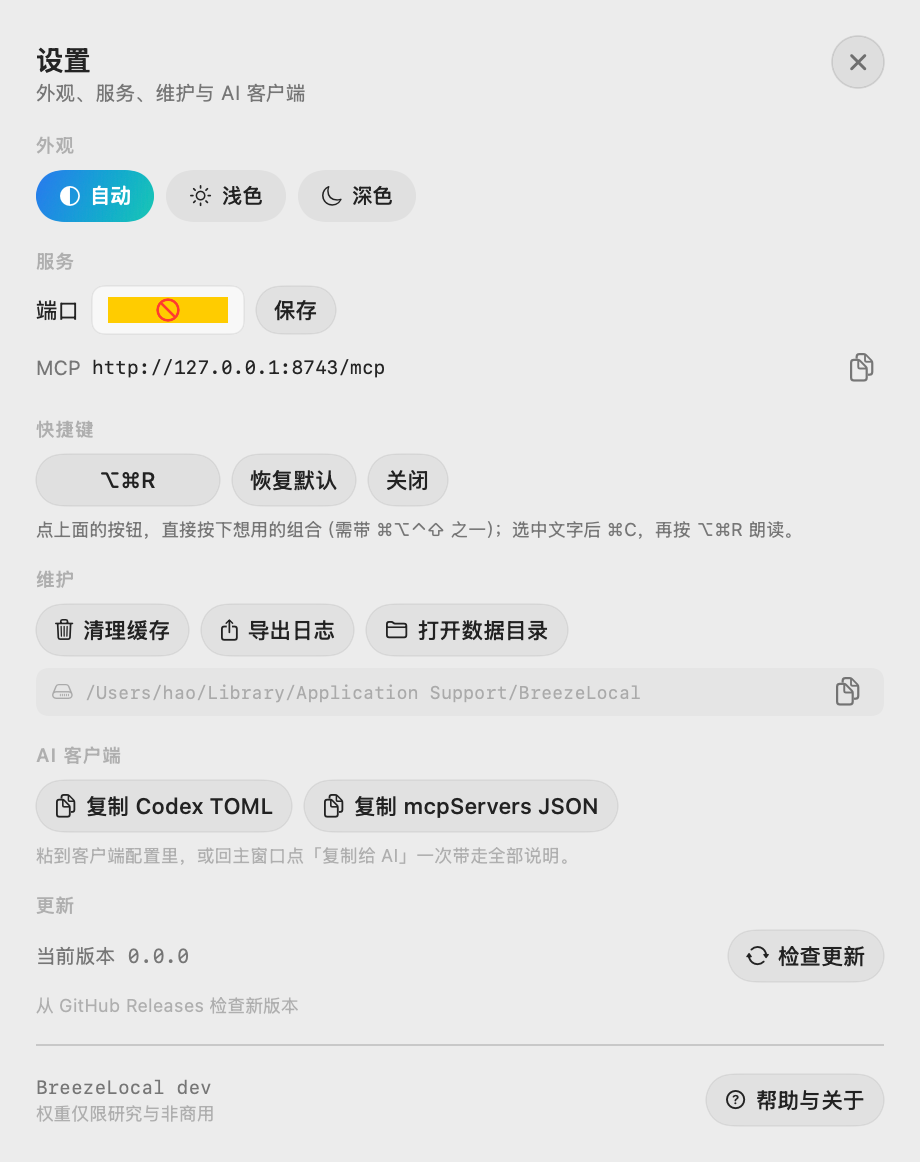
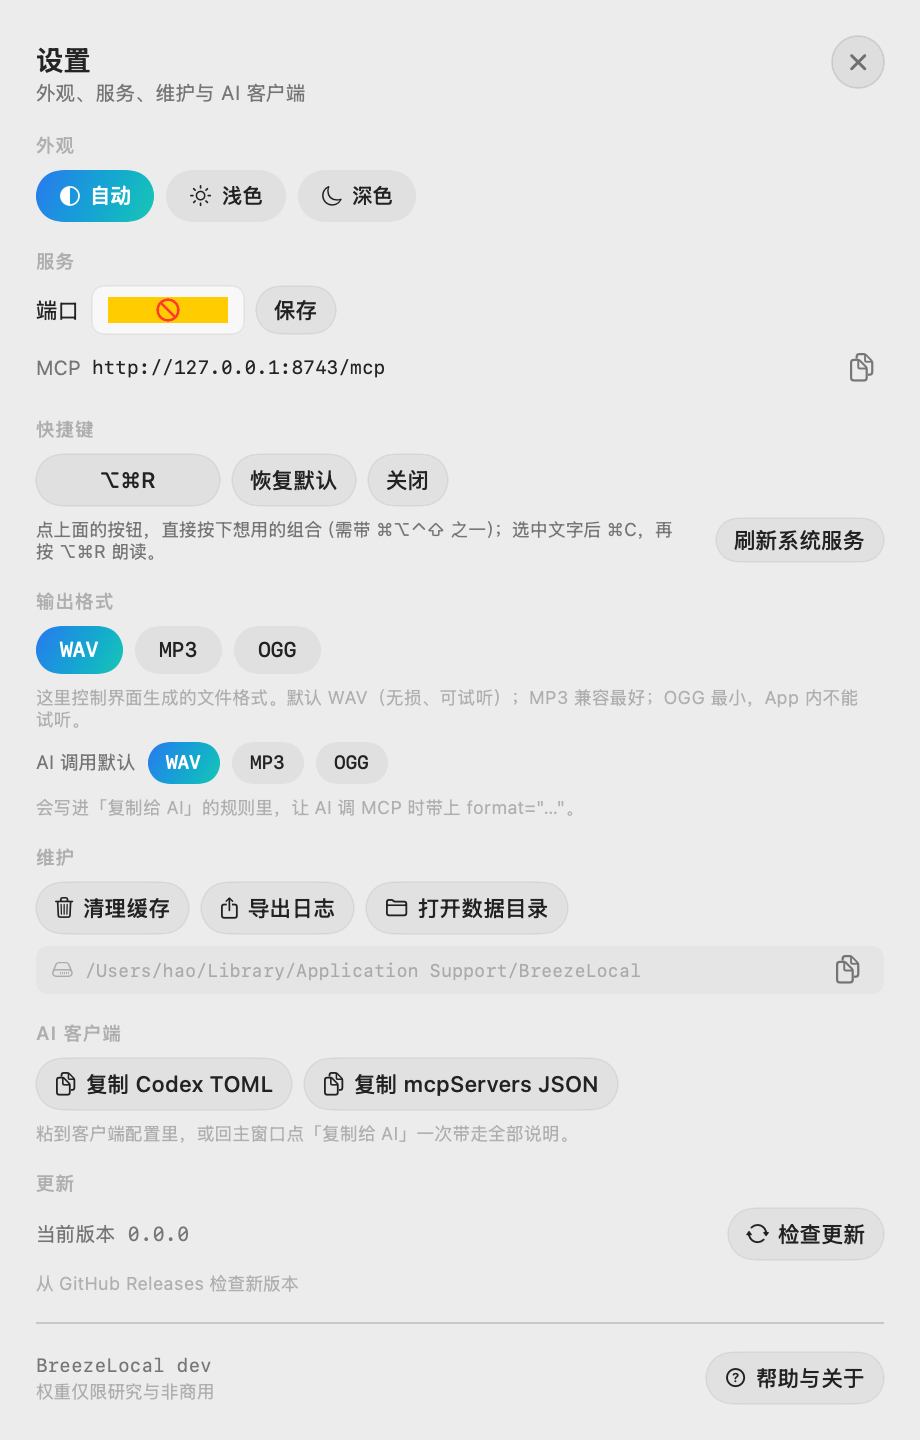
feat: MCP/HTTP 支持输出格式，设置可配 AI 默认格式
- breeze_speak/design/clone 增加 format（wav 默认 / mp3 / ogg）
- /v1/audio/speech 支持 format 并返回对应 Content-Type
- 设置新增「AI 调用默认」，写入交接文本规则
- CHANGELOG 0.8.3

diff --git a/Sources/BreezeLocal/AppState.swift b/Sources/BreezeLocal/AppState.swift
@@ -76,6 +76,10 @@ final class AppState: ObservableObject {
     @Published var exportFormat: String = UserDefaults.standard.string(forKey: "BreezeLocal.exportFormat") ?? "wav" {
         didSet { UserDefaults.standard.set(exportFormat, forKey: "BreezeLocal.exportFormat") }
     }
+    /// MCP / AI 调用时建议使用的格式，会写进「复制给 AI」的交接文本
+    @Published var aiFormat: String = UserDefaults.standard.string(forKey: "BreezeLocal.aiFormat") ?? "wav" {
+        didSet { UserDefaults.standard.set(aiFormat, forKey: "BreezeLocal.aiFormat") }
+    }
     @Published var showVoiceSheet = false
     @Published var showCloneSheet = false
 
@@ -749,6 +753,7 @@ final class AppState: ObservableObject {
         - 当前模型：\(model)
         - 模型路径：\(path)
         - 采样率：24 kHz 单声道
+        - 默认输出格式：\(aiFormat.uppercased())（可在设置里改）
 
         ## Codex 配置（~/.codex/config.toml）
         \(codexConfigText)
@@ -757,9 +762,9 @@ final class AppState: ObservableObject {
         \(jsonConfigText)
 
         ## 可用工具
-        - breeze_speak(text, voice?, instruct?, cfg_scale?)：用本机模型合成语音，返回 WAV 绝对路径。
-        - breeze_design(text, description, cfg_scale?)：用一句自然语言描述创造音色并朗读。
-        - breeze_clone(text, ref_audio, ref_text, instruct?, cfg_scale?)：用本地参考音频（3–30 秒）+ 逐字稿克隆音色。
+        - breeze_speak(text, voice?, instruct?, cfg_scale?, format?)：用本机模型合成语音，返回音频绝对路径；format 可选 wav（默认）/ mp3 / ogg。
+        - breeze_design(text, description, cfg_scale?, format?)：用一句自然语言描述创造音色并朗读。
+        - breeze_clone(text, ref_audio, ref_text, instruct?, cfg_scale?, format?)：用本地参考音频（3–30 秒）+ 逐字稿克隆音色。
         - breeze_status()：查看模型、采样率、内存占用。
 
         ## 使用规则
@@ -767,8 +772,9 @@ final class AppState: ObservableObject {
         2. 中文文本可用 [笑]、[叹气]、[咳嗽]、[清嗓子] 等方括号标记；英文用 (laugh)、(sigh) 等圆括号标记。
         3. 需要特定情绪或语气时，把导演指令写进 instruct（例如“语速放慢，语气克制而严肃”）。
         4. 参考音频必须干净、单人、无背景音乐；ref_text 必须与音频内容逐字一致。
-        5. MCP 生成的音频写在数据目录 outputs 下，只保留最近 5 条（可用环境变量 BREEZE_MCP_KEEP 调整），旧文件自动清理。
-        6. 生成结果只作为素材，商用前请确认 Breeze TTS 2 权重的非商用许可。
+        5. 调用 breeze_speak / breeze_design / breeze_clone 时请传 format="\(aiFormat)"；不传则用 WAV。做语音机器人建议 mp3 或 ogg（体积约为 WAV 的 1/6）。
+        6. MCP 生成的音频写在数据目录 outputs 下，只保留最近 5 条（可用环境变量 BREEZE_MCP_KEEP 调整），旧文件自动清理。
+        7. 生成结果只作为素材，商用前请确认 Breeze TTS 2 权重的非商用许可。
 
         ## 验证方式
         1. 确认服务在跑：/usr/bin/nc -z 127.0.0.1 \(mcpPort)

diff --git a/Sources/BreezeLocal/ContentView.swift b/Sources/BreezeLocal/ContentView.swift
@@ -1322,10 +1322,34 @@ struct SettingsSheet: View {
                     }
                     Spacer()
                 }
-                Text("默认 WAV（无损、可 App 内试听）；MP3 兼容性最好；OGG 体积最小，但 App 内不能试听，会用系统播放器打开。")
+                Text("这里控制界面生成的文件格式。默认 WAV（无损、可试听）；MP3 兼容最好；OGG 最小，App 内不能试听。")
                     .font(.system(size: 9))
                     .foregroundStyle(.tertiary)
                     .fixedSize(horizontal: false, vertical: true)
+
+                HStack(spacing: 6) {
+                    Text("AI 调用默认")
+                        .font(.system(size: 9.5))
+                        .foregroundStyle(.secondary)
+                    ForEach(["wav", "mp3", "ogg"], id: \.self) { format in
+                        Button { state.aiFormat = format } label: {
+                            Text(format.uppercased())
+                                .font(.system(size: 9.5, weight: .medium, design: .monospaced))
+                                .foregroundStyle(state.aiFormat == format ? Color.white : Color.primary)
+                                .padding(.horizontal, 9).frame(height: 21)
+                                .background(
+                                    Capsule().fill(state.aiFormat == format
+                                                   ? AnyShapeStyle(Palette.accentGradient)
+                                                   : AnyShapeStyle(Color.primary.opacity(0.06)))
+                                )
+                        }
+                        .buttonStyle(.plain)
+                    }
+                    Spacer()
+                }
+                Text("会写进「复制给 AI」的规则里，让 AI 调 MCP 时带上 format=\"…\"。")
+                    .font(.system(size: 9))
+                    .foregroundStyle(.tertiary)
             }
 
             section("维护") {

diff --git a/sidecar/breeze_sidecar.py b/sidecar/breeze_sidecar.py
@@ -55,6 +55,7 @@ class SpeechRequest(BaseModel):
     max_tokens: int = 1500
     temperature: float = 0.9
     seed: int | None = None
+    format: str = "wav"
 
 
 # --------------------------------------------------------------------------- #
@@ -353,8 +354,8 @@ def import_model(source: str, data_dir: Path, name: str | None) -> None:
     emit({"type": "done", "model": record})
 
 
-def convert_audio(src: Path, dst: Path, fmt: str) -> None:
-    """把 24k 单声道 WAV 转成 mp3 / ogg（依赖 libsndfile 1.2+）。"""
+def encode_file(src: Path, dst: Path, fmt: str) -> None:
+    """把 24k 单声道 WAV 编码成 mp3 / ogg（依赖 libsndfile 1.2+）。"""
     import soundfile as sf
 
     data, sr = sf.read(str(src), dtype="float32", always_2d=False)
@@ -364,8 +365,33 @@ def convert_audio(src: Path, dst: Path, fmt: str) -> None:
     elif fmt == "ogg":
         sf.write(str(dst), data, sr, format="OGG", subtype="VORBIS")
     else:
-        raise fail(f"不支持的格式：{fmt}")
+        raise ValueError(f"不支持的格式：{fmt}")
+
+
+def convert_audio(src: Path, dst: Path, fmt: str) -> None:
+    try:
+        encode_file(src, dst, fmt)
+    except ValueError as exc:
+        raise fail(str(exc)) from exc
     emit({"type": "done", "result": {"path": str(dst), "format": fmt, "bytes": dst.stat().st_size}})
+
+
+def save_output(audio, stem: str, fmt: str, outputs_dir: Path) -> tuple[Path, str]:
+    """写 WAV；如果要求 mp3/ogg 就转码并删掉中间文件。失败时保留 WAV。"""
+    fmt = (fmt or "wav").strip().lower()
+    if fmt not in {"wav", "mp3", "ogg"}:
+        fmt = "wav"
+    wav = outputs_dir / f"{stem}.wav"
+    write_wav(wav, audio)
+    if fmt == "wav":
+        return wav, "wav"
+    target = wav.with_suffix("." + fmt)
+    try:
+        encode_file(wav, target, fmt)
+        wav.unlink(missing_ok=True)
+        return target, fmt
+    except Exception:
+        return wav, "wav"
 
 
 def clean_cache(data_dir: Path) -> None:
@@ -619,33 +645,31 @@ def serve_model(args: argparse.Namespace, data_dir: Path) -> None:
     mcp = FastMCP("BreezeLocal")
 
     @mcp.tool
-    def breeze_speak(text: str, voice: str | None = None, instruct: str | None = None, cfg_scale: float | None = None) -> dict[str, Any]:
-        """Synthesize speech on this Mac and return the absolute path of the WAV file."""
+    def breeze_speak(text: str, voice: str | None = None, instruct: str | None = None, cfg_scale: float | None = None, format: str = "wav") -> dict[str, Any]:
+        """Synthesize speech on this Mac. format: wav (default) / mp3 / ogg. Returns the absolute output path."""
         try:
             result = run_infer(
                 lambda model: synthesize(model, text=text, voice=voice, instruct=instruct, cfg_scale=cfg_scale)
             )
         except BaseException as exc:  # noqa: BLE001
             return {"ok": False, "error": f"{type(exc).__name__}: {exc}"}
-        out = data_dir / "outputs" / f"mcp-{int(time.time()*1000)}.wav"
-        write_wav(out, result.pop("audio"))
+        out, used = save_output(result.pop("audio"), f"mcp-{int(time.time()*1000)}", format, data_dir / "outputs")
         prune_mcp_outputs(data_dir / "outputs")
-        return {"ok": True, "path": str(out), **result}
+        return {"ok": True, "path": str(out), "format": used, **result}
 
     @mcp.tool
-    def breeze_design(text: str, description: str, cfg_scale: float = 4.0) -> dict[str, Any]:
-        """Create a voice from a natural-language description (no reference audio)."""
+    def breeze_design(text: str, description: str, cfg_scale: float = 4.0, format: str = "wav") -> dict[str, Any]:
+        """Create a voice from a natural-language description (no reference audio). format: wav / mp3 / ogg."""
         result = run_infer(
             lambda model: synthesize(model, text=text, instruct=description, cfg_scale=cfg_scale)
         )
-        out = data_dir / "outputs" / f"design-{int(time.time()*1000)}.wav"
-        write_wav(out, result.pop("audio"))
+        out, used = save_output(result.pop("audio"), f"design-{int(time.time()*1000)}", format, data_dir / "outputs")
         prune_mcp_outputs(data_dir / "outputs")
-        return {"ok": True, "path": str(out), **result}
+        return {"ok": True, "path": str(out), "format": used, **result}
 
     @mcp.tool
-    def breeze_clone(text: str, ref_audio: str, ref_text: str, instruct: str | None = None, cfg_scale: float | None = None) -> dict[str, Any]:
-        """Clone a speaker from a local reference WAV and its exact transcript."""
+    def breeze_clone(text: str, ref_audio: str, ref_text: str, instruct: str | None = None, cfg_scale: float | None = None, format: str = "wav") -> dict[str, Any]:
+        """Clone a speaker from a local reference WAV and its exact transcript. format: wav / mp3 / ogg."""
         result = run_infer(
             lambda model: synthesize(
                 model,
@@ -656,10 +680,9 @@ def serve_model(args: argparse.Namespace, data_dir: Path) -> None:
                 cfg_scale=cfg_scale if cfg_scale is not None else 4.0,
             )
         )
-        out = data_dir / "outputs" / f"clone-{int(time.time()*1000)}.wav"
-        write_wav(out, result.pop("audio"))
+        out, used = save_output(result.pop("audio"), f"clone-{int(time.time()*1000)}", format, data_dir / "outputs")
         prune_mcp_outputs(data_dir / "outputs")
-        return {"ok": True, "path": str(out), **result}
+        return {"ok": True, "path": str(out), "format": used, **result}
 
     @mcp.tool
     def breeze_status() -> dict[str, Any]:
@@ -707,14 +730,16 @@ def serve_model(args: argparse.Namespace, data_dir: Path) -> None:
             )
         )
         audio = result.pop("audio")
-        buf = _wav_bytes(audio)
+        fmt = (req.format or "wav").strip().lower()
+        buf, media = _encode_bytes(audio, fmt)
         return Response(
             content=buf,
-            media_type="audio/wav",
+            media_type=media,
             headers={
                 "X-Audio-Duration": str(result["duration"]),
                 "X-Audio-RTF": str(result["rtf"]),
                 "X-Audio-TTFA": str(result["ttfa"]),
+                "X-Audio-Format": fmt if fmt in {"wav", "mp3", "ogg"} else "wav",
             },
         )
 
@@ -747,6 +772,22 @@ def prune_mcp_outputs(outputs_dir: Path, keep: int = MCP_KEEP) -> None:
             old.unlink()
         except OSError:
             pass
+
+
+def _encode_bytes(audio, fmt: str) -> tuple[bytes, str]:
+    import io
+
+    import soundfile as sf
+
+    buf = io.BytesIO()
+    if fmt == "mp3":
+        sf.write(buf, audio, SAMPLE_RATE, format="MP3")
+        return buf.getvalue(), "audio/mpeg"
+    if fmt == "ogg":
+        sf.write(buf, audio, SAMPLE_RATE, format="OGG", subtype="VORBIS")
+        return buf.getvalue(), "audio/ogg"
+    sf.write(buf, audio, SAMPLE_RATE, format="WAV", subtype="PCM_16")
+    return buf.getvalue(), "audio/wav"
 
 
 def _wav_bytes(audio) -> bytes:

diff --git a/README.md b/README.md
@@ -82,12 +82,12 @@ xattr -cr /Applications/BreezeLocal.app
 
 | 工具 | 用途 |
 | --- | --- |
-| `breeze_speak(text, voice?, instruct?, cfg_scale?)` | 合成语音，返回 WAV 绝对路径 |
-| `breeze_design(text, description)` | 用描述造音色并朗读 |
-| `breeze_clone(text, ref_audio, ref_text, instruct?)` | 用参考音频克隆音色 |
+| `breeze_speak(text, voice?, instruct?, cfg_scale?, format?)` | 合成语音，返回音频路径；`format` = `wav`（默认）/ `mp3` / `ogg` |
+| `breeze_design(text, description, format?)` | 用描述造音色并朗读 |
+| `breeze_clone(text, ref_audio, ref_text, instruct?, format?)` | 用参考音频克隆音色 |
 | `breeze_status()` | 查看模型、采样率、内存占用 |
 
-MCP 生成的音频只保留最近 5 条（`BREEZE_MCP_KEEP` 可调），避免语音机器人把磁盘写满；界面里生成的文件不受影响。
+MCP 生成的音频只保留最近 5 条（`BREEZE_MCP_KEEP` 可调），避免语音机器人把磁盘写满；界面里生成的文件不受影响。做语音机器人建议直接传 `format="mp3"`，体积约为 WAV 的 1/6。
 
 ## 模型与速度
 

diff --git a/CHANGELOG.md b/CHANGELOG.md
@@ -2,6 +2,14 @@
 
 本项目遵循「小步快跑」的版本节奏：功能可用即发版，版本号按 0.x 递增。
 
+## [0.8.3] - 2026-11-09
+
+### 新增
+- MCP 工具 `breeze_speak` / `breeze_design` / `breeze_clone` 支持 `format` 参数：`wav`（默认）/ `mp3` / `ogg`
+- HTTP `/v1/audio/speech` 同样支持 `format`，返回对应 `Content-Type`（`audio/mpeg` / `audio/ogg`）
+- 设置里新增「AI 调用默认格式」，会写进「复制给 AI」的规则（AI 调 MCP 时带上 format）
+- 「复制给 AI」交接文本里补充格式说明与建议（语音机器人用 mp3/ogg）
+
 ## [0.8.2] - 2026-11-09
 
 ### 修复
